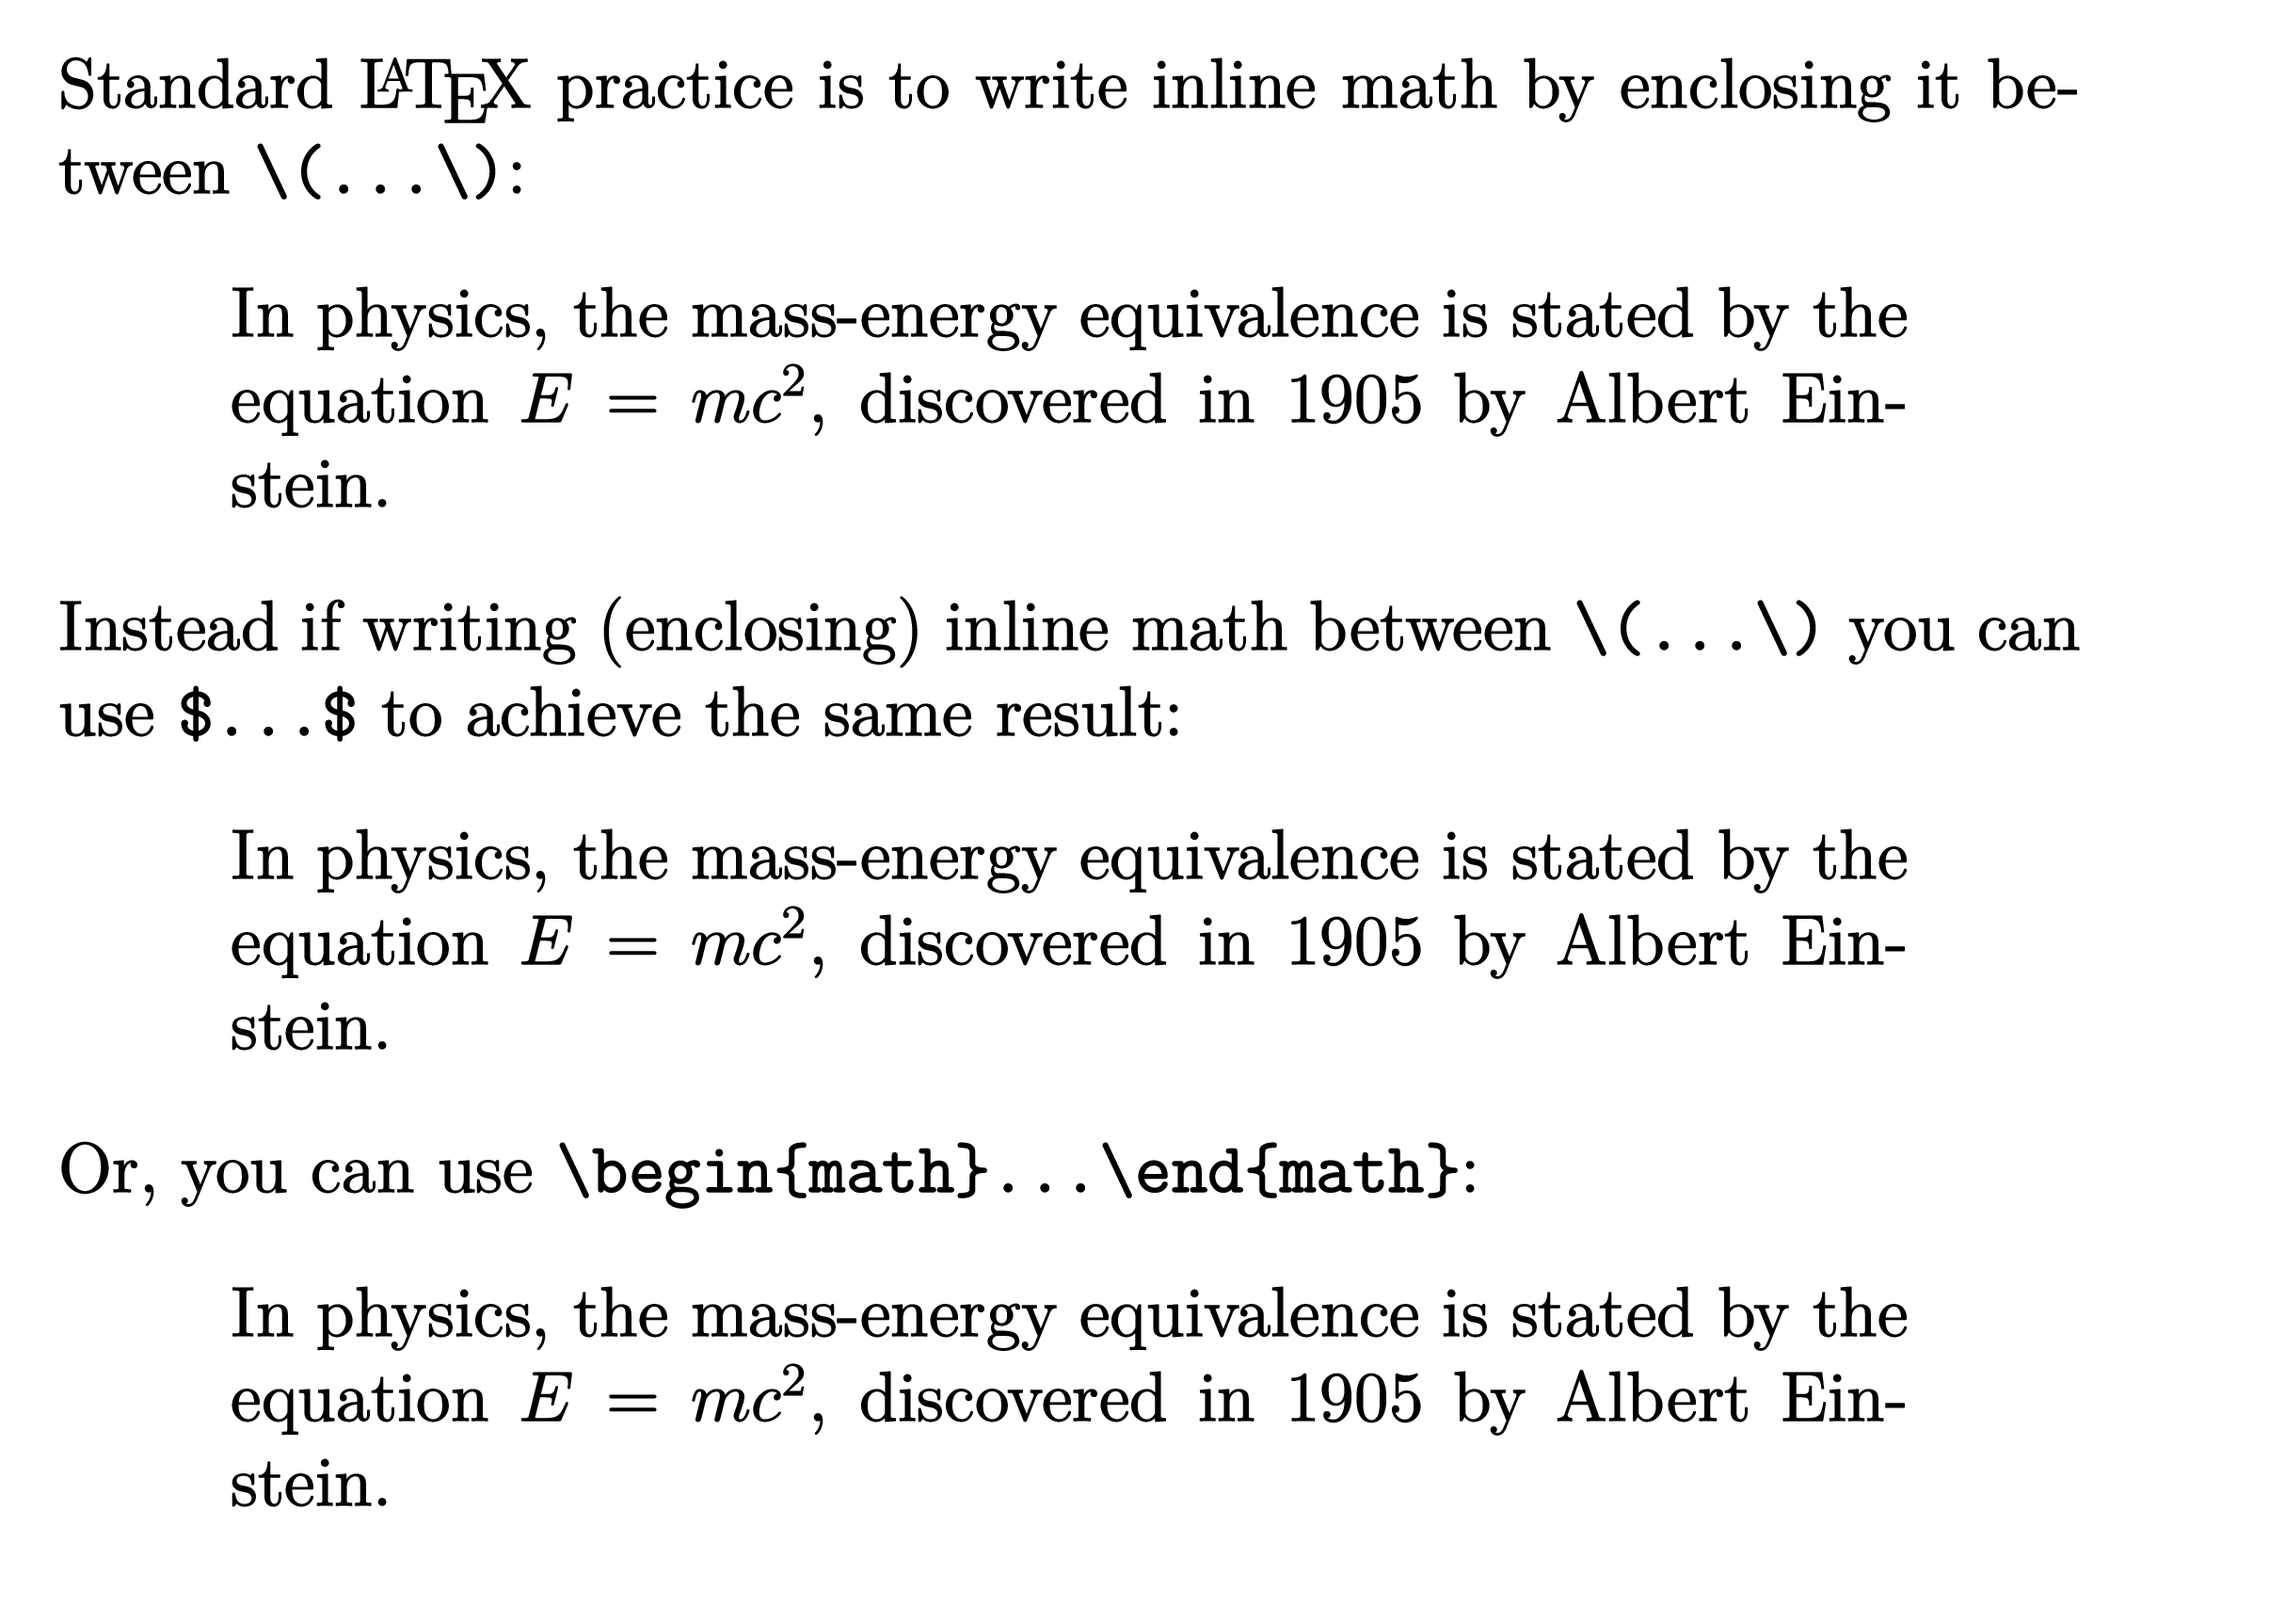
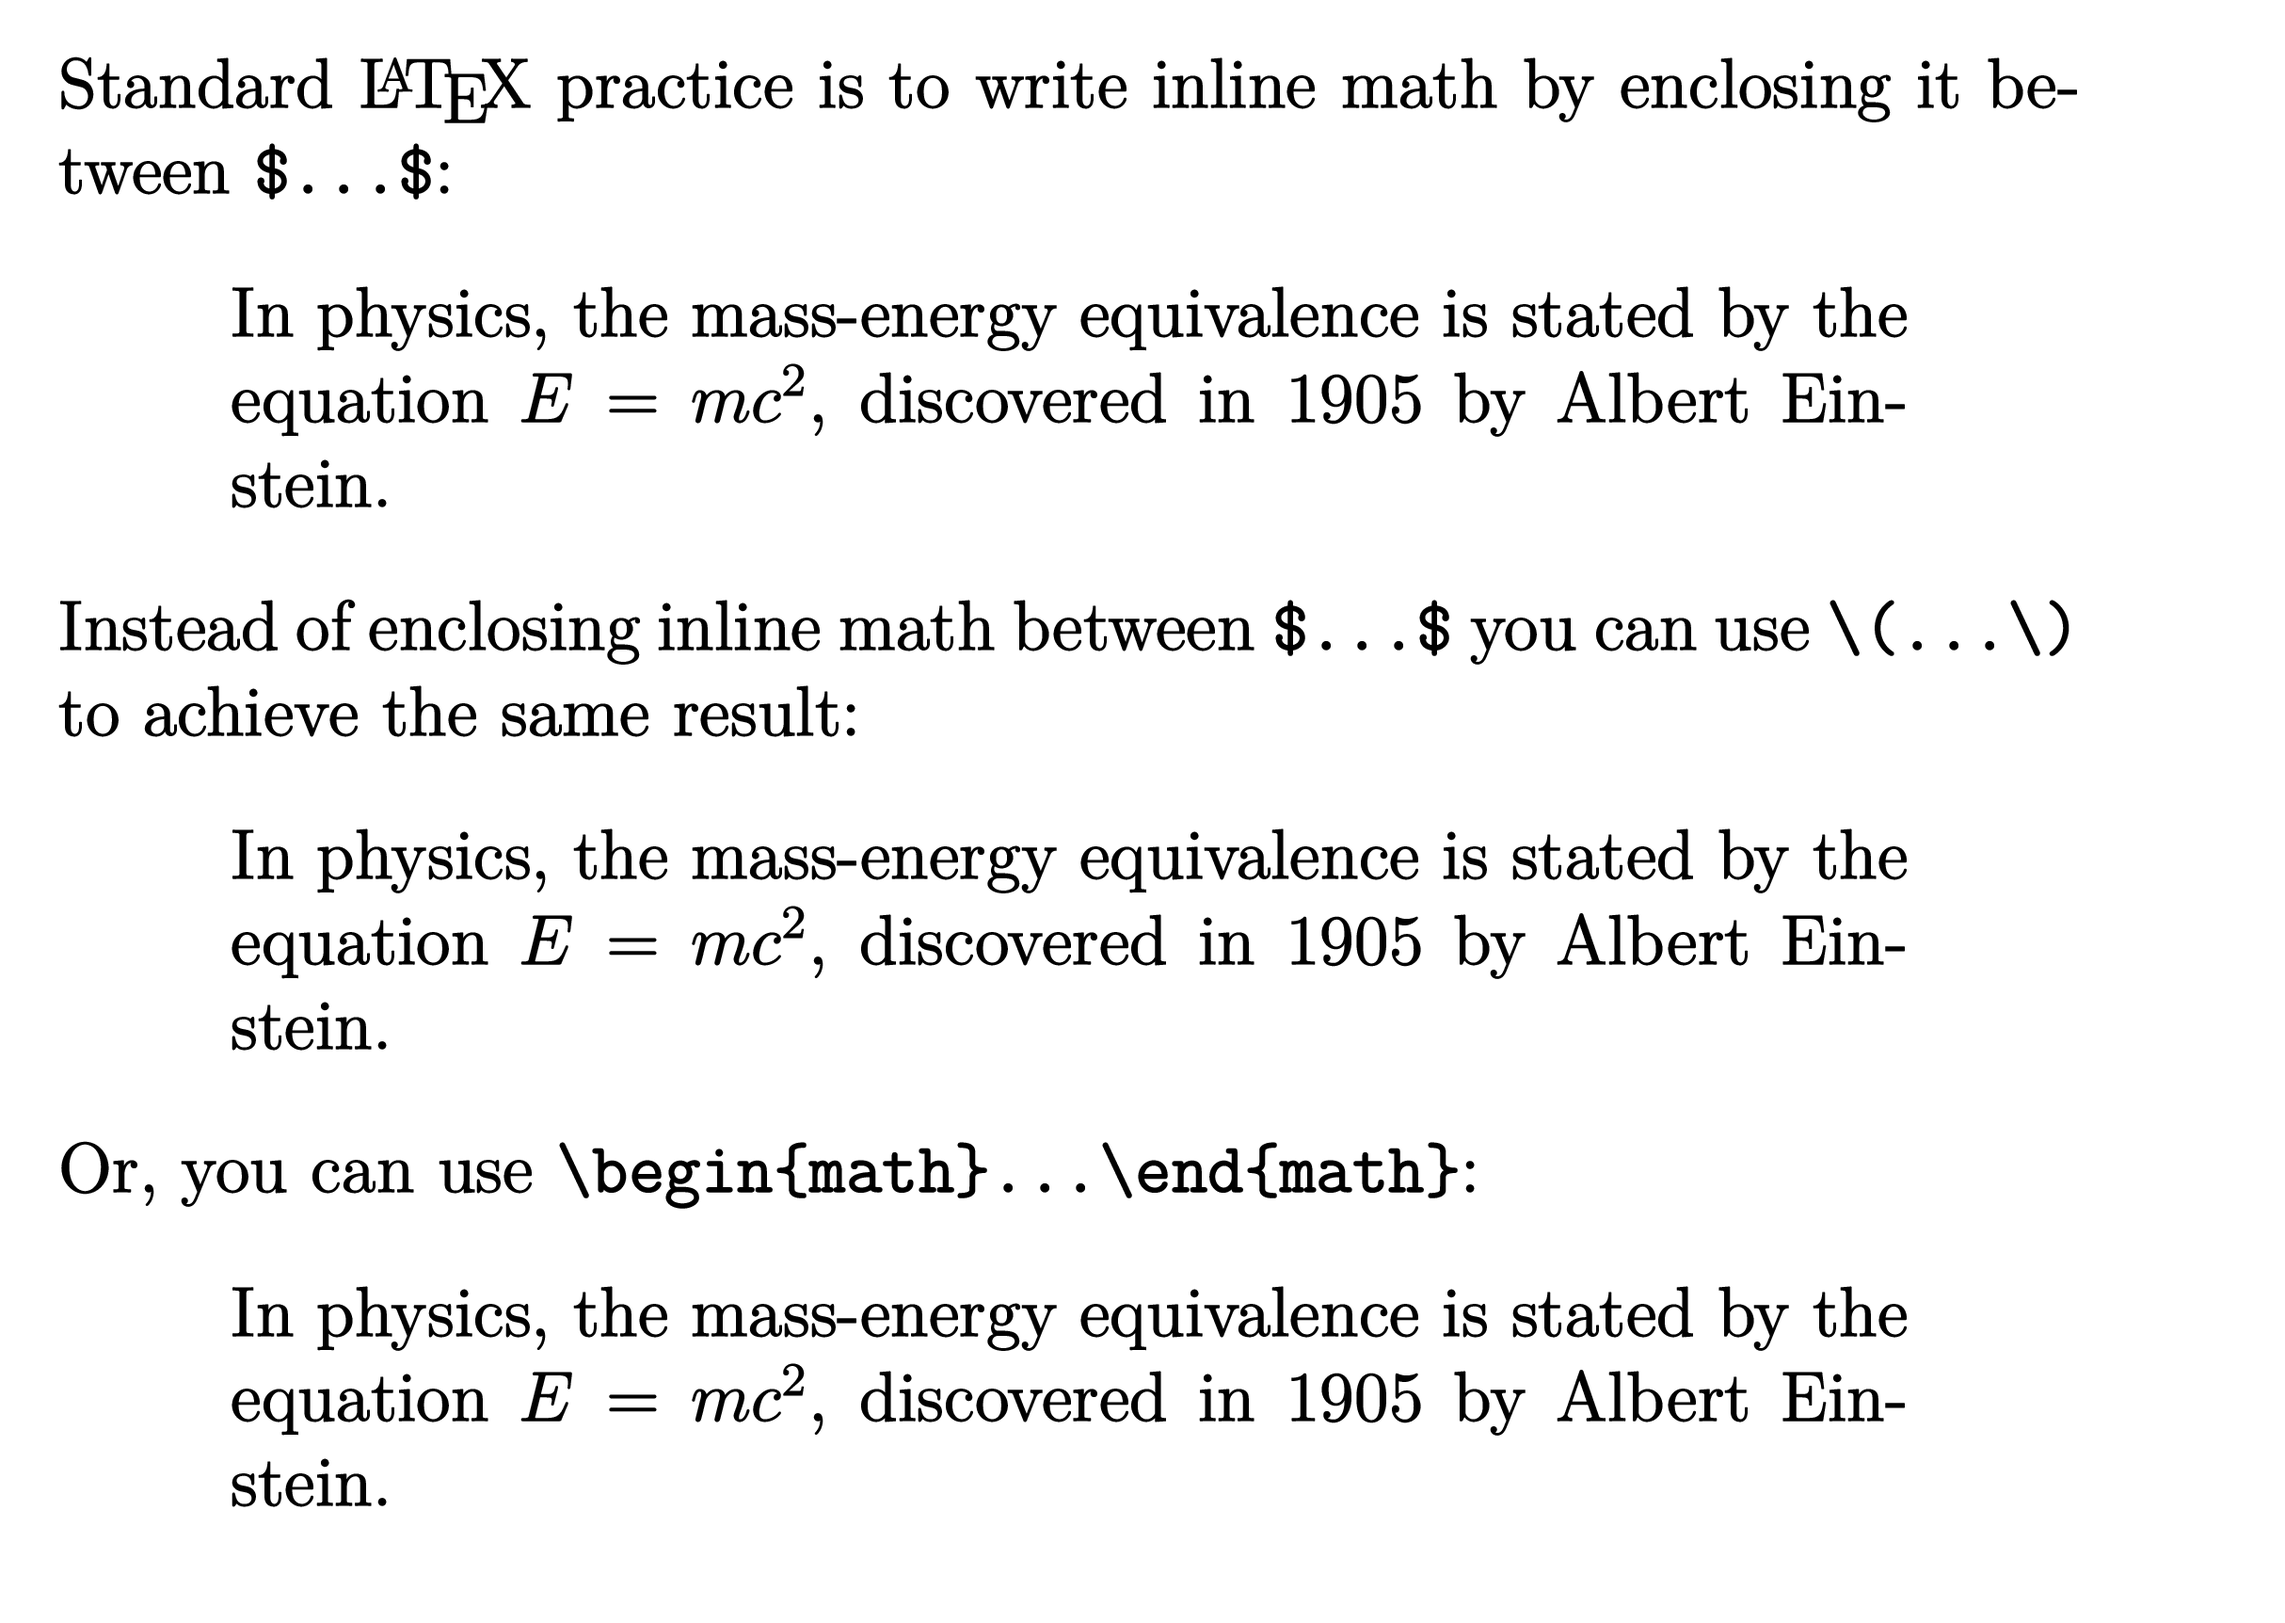
Add latex math

Changed region(s): [[0.0309, 0.3689, 0.9267, 0.4611], [0.0927, 0.0922, 0.2162, 0.123]]

diff --git a/latexmath.md b/latexmath.md
@@ -1,5 +1,171 @@
 # Math Symbols
 
+## Fractions and Binomials
+
+### Binomials
+
+This section explains how to typeset fractions and binomial coefficients, starting with the following example which uses the [amsmath package](https://ctan.org/pkg/amsmath?lang=en):
+
+```latex
+\documentclass{article}
+
+\usepackage{amsmath}
+
+\begin{document}
+
+The binomial coefficient, \(\binom{n}{k}\), is defined by the expression:
+\[ \binom{n}{k} = \frac{n!}{k!(n-k)!}. \]
+
+\end{document}
+```
+
+The [amsmath package](https://ctan.org/pkg/amsmath?lang=en) is loaded by adding the following line to the document preamble:
+
+```latex
+\usepackage{amsmath}
+```
+
+Here is the output produced:
+
+#### Displaying fractions
+
+The visual appearance of fractions will change depending on whether they appear inline, as part of a paragraph, or typeset as standalone material displayed on their own line. The next example demonstrates those changes to visual appearance:
+
+```latex
+\documentclass{article}
+
+\begin{document}
+
+Fractions can be used inline within the paragraph text, for example \(\frac{1}{2}\), or displayed on their own line, such as this:
+\[ \frac{1}{2}. \]
+
+\end{document}
+```
+
+This example produces the following output:
+
+> **Note:** More information on inline and display versions of mathematics can be found in the Overleaf article [Display style in math mode](https://www.overleaf.com/learn/latex/Display_style_in_math_mode). Our example fraction is typeset using the `\frac` command (`\frac{1}{2}`) which has the general form `\frac{numerator}{denominator}`.
+
+### Text in Mathematics
+
+The following example demonstrates typesetting text-only fractions by using the `\text{...}` command provided by the amsmath package. The `\text{...}` command is used to prevent LaTeX typesetting the text as regular mathematical content.
+
+```latex
+\documentclass{article}
+
+\usepackage{amsmath} % For the \text{...} command
+
+\begin{document}
+
+We use the \texttt{amsmath} package command \verb|\text{...}| to create text-only fractions like this:
+\[\frac{\text{numerator}}{\text{denominator}}\]
+Without the \verb|\text{...}| command the result looks like this:
+\[\frac{numerator}{denominator}\]
+
+\end{document}
+```
+
+This example produces the following output:
+
+#### Size and spacing within typeset mathematics
+
+The size and spacing of mathematical material typeset by LaTeX is [determined by algorithms](https://tug.org/TUGboat/tb27-1/tb86jackowski.pdf) which apply size and positioning data contained inside the fonts used to typeset mathematics. Occasionally, it may be necessary, or desirable, to override the default mathematical styles—size and spacing of math elements—chosen by LaTeX, a topic discussed in the Overleaf help article [Display style in math mode](https://www.overleaf.com/learn/latex/Display_style_in_math_mode#Overriding_default_mathematical_styles).
+
+To summarize, the default style(s) used to typeset mathematics can be changed by the following commands:
+
+- `\textstyle`: apply the style used for mathematics typeset in paragraphs;
+- `\displaystyle`: apply the style used for mathematics typeset on lines by themselves;
+- `\scriptstyle`: apply the style used for subscripts or superscripts;
+- `\scriptscriptstyle`: apply the style used for second-order subscripts or superscripts;
+
+which are demonstrated in the next example.
+
+```latex
+\documentclass{article}
+
+\begin{document}
+
+Fractions typeset within a paragraph typically look like this: \(\frac{3x}{2}\).
+You can force \LaTeX{} to use the larger display style, such as \( \displaystyle \frac{3x}{2} \), which also has an effect on line spacing.
+The size of maths in a paragraph can also be reduced: \(\scriptstyle \frac{3x}{2}\) or \(\scriptscriptstyle \frac{3x}{2}\).
+For the \verb|\scriptscriptstyle| example note the reduction in spacing: characters are moved closer to the \textit{vinculum} (the line separating numerator and denominator).
+Equally, you can change the style of mathematics normally typeset in display style:
+\[f(x)=\frac{P(x)}{Q(x)}\quad \textrm{and}\quad \textstyle f(x)=\frac{P(x)}{Q(x)}\quad \textrm{and}\quad \scriptstyle f(x)=\frac{P(x)}{Q(x)}\]
+
+\end{document}
+```
+
+This example produces the following output:
+
+#### Continued fractions
+
+Fractions can be nested to obtain more complex expressions. The second pair of fractions displayed in the following example both use the `\cfrac` command, designed specifically to produce continued fractions. To use `\cfrac` you must load the [amsmath package](https://ctan.org/pkg/amsmath?lang=en) in the document preamble.
+
+```latex
+\documentclass{article}
+
+% Load amsmath to access the \cfrac{...}{...} command
+\usepackage{amsmath}
+
+\begin{document}
+
+Fractions can be nested but, in this example, note how the default math styles, as used in the denominator, don't produce ideal results...
+\[ \frac{1+\frac{a}{b}}{1+\frac{1}{1+\frac{1}{a}}} \]
+\noindent ...so we use \verb|\displaystyle| to improve typesetting:
+\[ \frac{1+\frac{a}{b}}{\displaystyle 1+\frac{1}{1+\frac{1}{a}}} \]
+Here is an example which uses the \texttt{amsmath} \verb|\cfrac| command:
+\[ a_0+\cfrac{1}{a_1+\cfrac{1}{a_2+\cfrac{1}{a_3+\cdots}}} \]
+Here is another example, derived from the \texttt{amsmath} documentation, which demonstrates left and right placement of the numerator using \verb|\cfrac[l]| and \verb|\cfrac[r]| respectively:
+\[ \cfrac[l]{1}{\sqrt{2}+ \cfrac[r]{1}{\sqrt{2}+ \cfrac{1}{\sqrt{2}+\dotsb}}} \]
+
+\end{document}
+```
+
+This example produces the following output:
+
+### Matrices
+
+#### amsmath matrix environments
+
+The `amsmath` package provides commands to typeset matrices with different delimiters. Once you have loaded `\usepackage{amsmath}` in your preamble, you can use the following environments in your math environments:
+
+| Type | LaTeX markup | Renders as |
+| --- | --- | --- |
+| Plain | `\begin{matrix} 1 & 2 & 3\\ a & b & c \end{matrix}` | $\begin{matrix} 1 & 2 & 3\\ a & b & c \end{matrix}$ |
+| Parentheses; round brackets | `\begin{pmatrix} 1 & 2 & 3\\ a & b & c \end{pmatrix}` | $\begin{pmatrix} 1 & 2 & 3\\ a & b & c \end{pmatrix}$ |
+| Brackets; square brackets | `\begin{bmatrix} 1 & 2 & 3\\ a & b & c \end{bmatrix}` | $\begin{bmatrix} 1 & 2 & 3\\ a & b & c \end{bmatrix}$ |
+| Braces; curly brackets | `\begin{Bmatrix} 1 & 2 & 3\\ a & b & c \end{Bmatrix}` | $\begin{Bmatrix} 1 & 2 & 3\\ a & b & c \end{Bmatrix}$ |
+| Pipes | `\begin{vmatrix} 1 & 2 & 3\\ a & b & c \end{vmatrix}` | $\begin{vmatrix} 1 & 2 & 3\\ a & b & c \end{vmatrix}$ |
+| Double pipes | `\begin{Vmatrix} 1 & 2 & 3\\ a & b & c \end{Vmatrix}` | $\begin{Vmatrix} 1 & 2 & 3\\ a & b & c \end{Vmatrix}$ |
+
+If you need to create matrices with different [delimiters](https://www.overleaf.com/learn/latex/Brackets_and_Parentheses), you can add them manually to a plain `matrix`. For example:
+
+| LaTeX markup | Renders as |
+| --- | --- |
+| `\left\lceil \begin{matrix} 1 & 2 & 3\\ a & b & c \end{matrix} \right\rceil` | $\left\lceil \begin{matrix} 1 & 2 & 3\\ a & b & c \end{matrix} \right\rceil$ |
+| `\left\langle \begin{matrix} 1 & 2 & 3\\ a & b & c \end{matrix} \right\rvert` | $\left\langle \begin{matrix} 1 & 2 & 3\\ a & b & c \end{matrix} \right\rvert$ |
+| `\left\langle \begin{matrix} 1 & 2 & 3\\ a & b & c \end{matrix} \right\rangle` | $\left\langle \begin{matrix} 1 & 2 & 3\\ a & b & c \end{matrix} \right\rangle$ |
+
+#### Inline matrices
+
+When typesetting inline math, the usual `matrix` environments above may look too big. It may be better to use `smallmatrix` in such situations, although you will need to provide your own [delimiters](https://www.overleaf.com/learn/latex/Brackets_and_Parentheses).
+
+```latex
+\documentclass{article}
+
+\usepackage{amsmath}
+
+\begin{document}
+
+\noindent Trying to typeset an inline matrix here: $\begin{pmatrix} a & b\\ c & d \end{pmatrix}$, but it looks too big, so let's try $\big(\begin{smallmatrix} a & b\\ c & d \end{smallmatrix}\big)$ instead.
+
+\end{document}
+```
+
+The following image shows the output produced by the example above:
+
+The `mathtools` package provides `psmallmatrix`, `bsmallmatrix` etc environments for convenience.
+
 - - -
 
 Next: **[Inserting Figures](latexfigures.md)**

diff --git a/latex.md b/latex.md
@@ -41,13 +41,13 @@ They all work and the choice is a matter of taste, so let's see some examples.
 
 \begin{document}
 
-Standard \LaTeX{} practice is to write inline math by enclosing it between \verb|\(...\)|:
-\begin{quote}
-In physics, the mass-energy equivalence is stated by the equation \(E=mc^2\), discovered in 1905 by Albert Einstein.
-\end{quote}
-Instead if writing (enclosing) inline math between \verb|\(...\)| you can use \texttt{\$...\$} to achieve the same result:
+Standard \LaTeX{} practice is to write inline math by enclosing it between \verb|$...$|:
 \begin{quote}
 In physics, the mass-energy equivalence is stated by the equation $E=mc^2$, discovered in 1905 by Albert Einstein.
+\end{quote}
+Instead of enclosing inline math between \verb|$...$| you can use \verb|\(...\)| to achieve the same result:
+\begin{quote}
+In physics, the mass-energy equivalence is stated by the equation \(E=mc^2\), discovered in 1905 by Albert Einstein.
 \end{quote}
 Or, you can use \verb|\begin{math}...\end{math}|:
 \begin{quote}

diff --git a/presentations.md b/presentations.md
@@ -1,3 +1,5 @@
+# Presentations
+
 From time to time you may have to present your findings or solutions to
 problems in the discussion classes or tutorials. There are a few things to pay
 attention to when giving presentations.

diff --git a/index.md b/index.md
@@ -1,3 +1,9 @@
+---
+title: Index | Professional Communication in Math and Statistics
+---
+
+
+
 # Writing
 
 [Basic Principles](principles.md)
